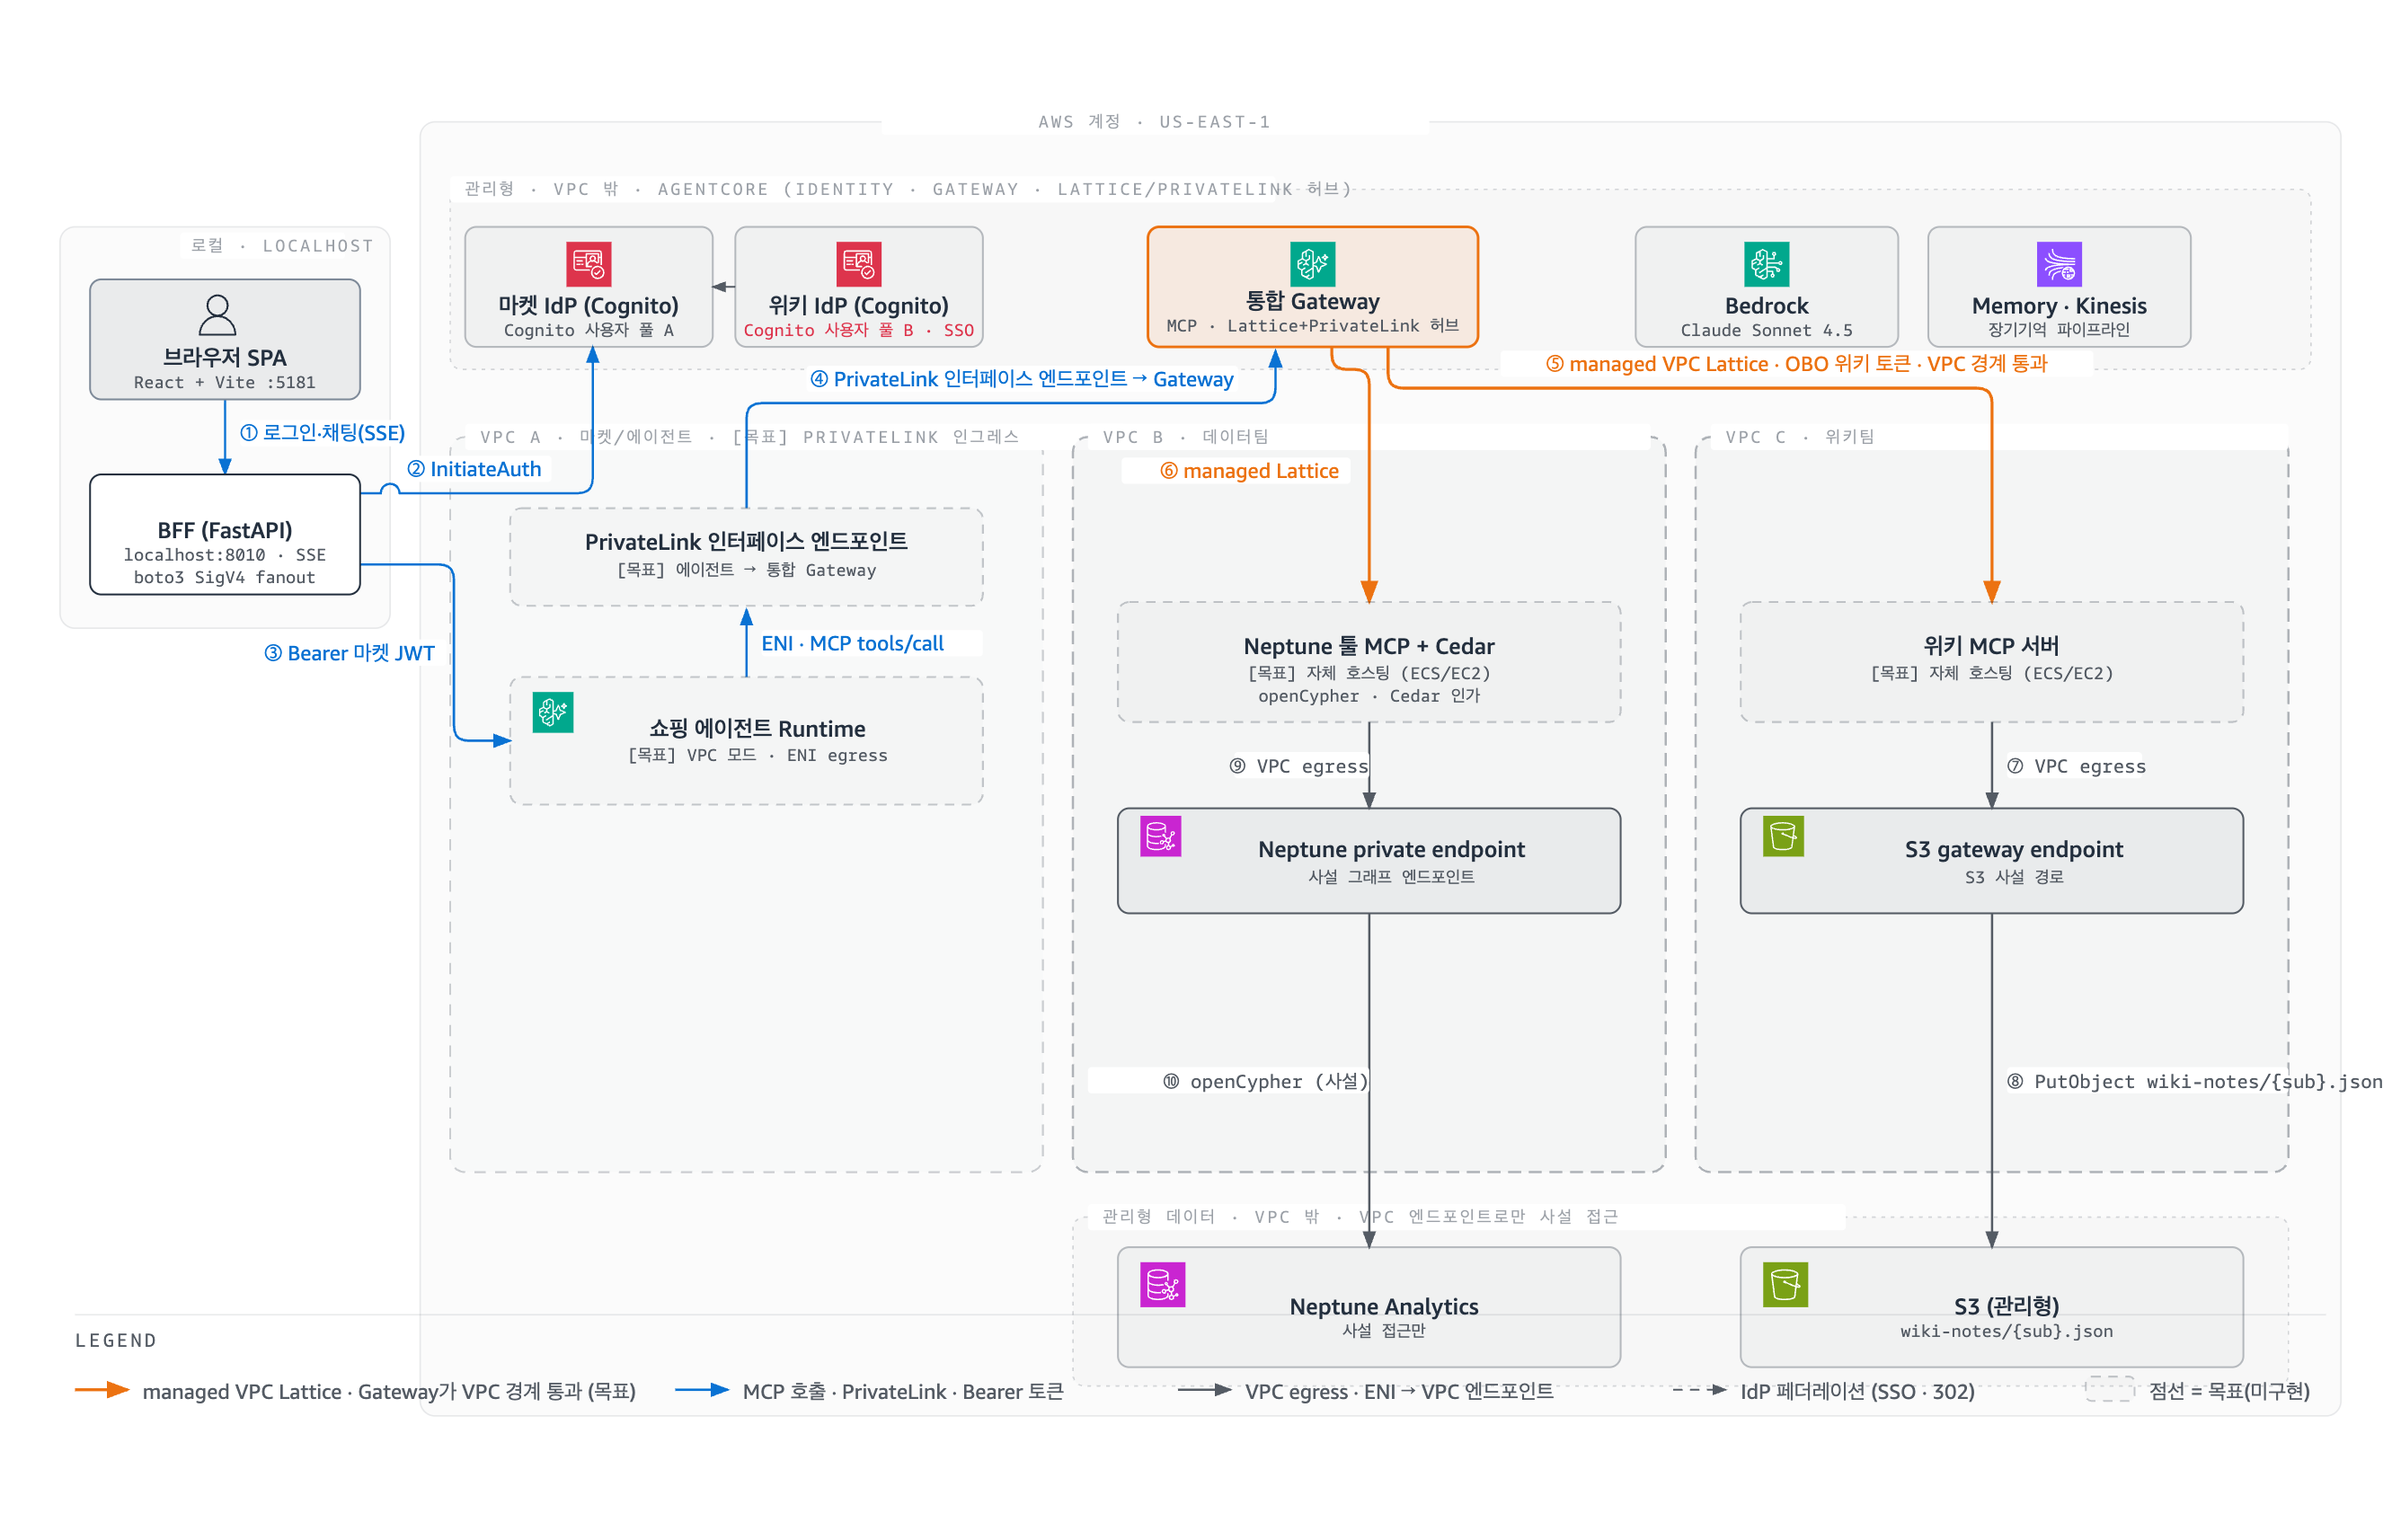
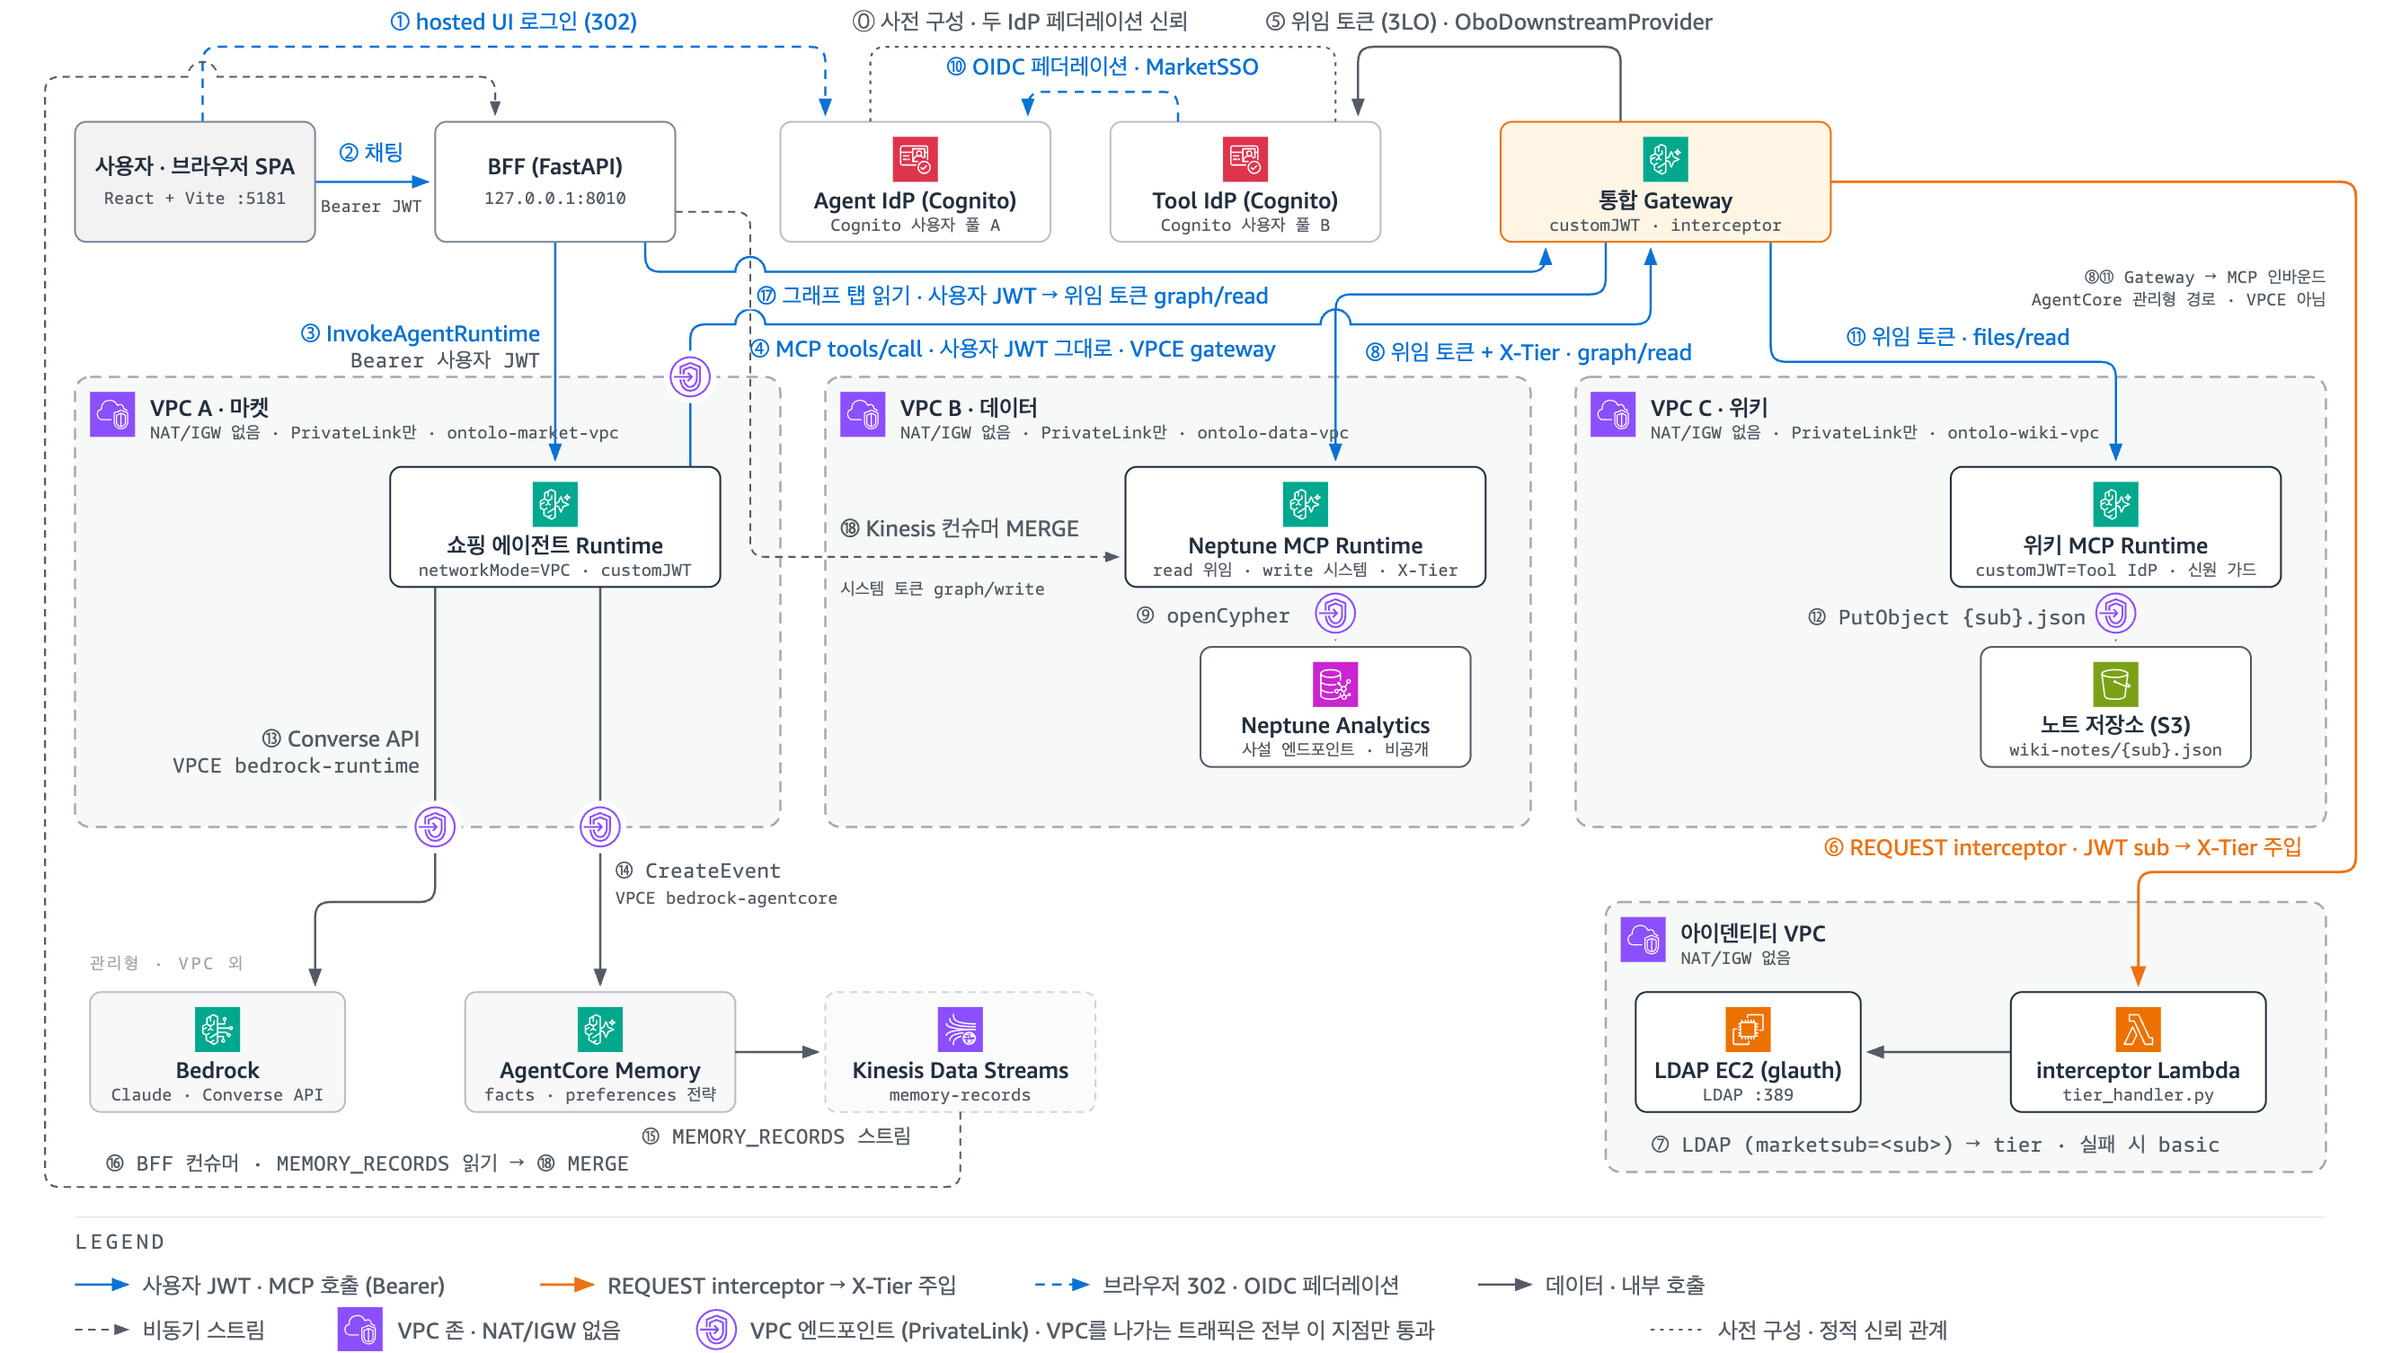
README: use current-state 4-VPC architecture diagram and matching explanation

diff --git a/README.md b/README.md
@@ -36,7 +36,40 @@ Amazon Bedrock AgentCore(Runtime · Gateway · Identity · Memory) 위에서 동
 
 ## 아키텍처
 
-![Ontolo Market 아키텍처 — VPC 분리 구조](docs/architecture.png)
+![Ontolo Market 아키텍처 — 4 VPC · PrivateLink 경계 · 신원이 백엔드까지 흐르는 길](docs/architecture.png)
+
+마켓(A)·데이터(B)·위키(C)·아이덴티티 네 VPC 어디에도 NAT·인터넷 게이트웨이가 없고, VPC를 나가는 트래픽은
+전부 VPC 엔드포인트(PrivateLink, 그림의 보라색 배지)만 통과합니다. 팀 사이의 연결은 네트워크가 아니라
+**통합 Gateway 하나**로 이루어지고, 각 팀의 시스템은 그 뒤의 내부 MCP 서버(AgentCore Runtime, VPC 모드)로 붙습니다.
+
+**구역**
+
+- **VPC 밖(관리형)**: 브라우저 SPA·BFF, Agent IdP(Cognito 풀 A)·Tool IdP(Cognito 풀 B), 통합 Gateway, Bedrock,
+  AgentCore Memory, Kinesis.
+- **VPC A · 마켓**: 쇼핑 에이전트 Runtime. Bedrock(⑬)·Memory(⑭)·Gateway(④)로 나가는 길은 인터페이스 엔드포인트뿐.
+- **VPC B · 데이터**: Neptune MCP Runtime과 Neptune Analytics(사설 엔드포인트, 비공개).
+- **VPC C · 위키**: 위키 MCP Runtime과 노트 S3(게이트웨이 엔드포인트).
+- **아이덴티티 VPC**: LDAP(glauth on EC2)과 Gateway REQUEST interceptor Lambda. Gateway → MCP Runtime 인바운드(⑧⑪)는
+  AgentCore 관리형 경로라 별도 엔드포인트가 없습니다.
+
+**흐름**
+
+- ⓪ 사전 구성 — Tool IdP가 Agent IdP를 OIDC로 신뢰(정적 신뢰, 화살촉 없는 점선).
+- ①②③ 로그인·전달 — hosted UI 로그인으로 받은 JWT가 BFF → 쇼핑 Runtime까지 그대로 전달. 홉마다 Agent IdP JWKS로
+  독립 검증하고, 고객 프로필은 요청값이 아니라 JWT `sub`로 바인딩.
+- ④ Gateway까지 토큰 하나 — 에이전트가 사용자 JWT 그대로 통합 Gateway를 MCP로 호출(VPCE gateway). 사용자 토큰의 마지막 홉.
+- ⑥⑦ 정책 지점 — REQUEST interceptor가 JWT `sub`로 LDAP을 조회해 `X-Tier`를 주입. 클라이언트 값은 무조건 덮고,
+  조회 실패 시 basic. 같은 자리에서 S3 revoke 목록(`iat <= revoked_at`)을 확인해 revoke된 세션을 즉시 거부.
+- ⑤⑧⑪ 위임 토큰 교환 — Gateway가 Token Vault의 Tool IdP 위임 토큰(3LO, 사용자 명의; `graph/read`·`files/read`)을 붙여
+  Neptune MCP·위키 MCP를 호출. MCP 타깃은 사용자 JWT 패스스루를 지원하지 않으므로 마켓 토큰은 백엔드에 닿지 않습니다.
+  볼트에 토큰이 없으면 동의 URL이 돌아오고 ⑩ OIDC 페더레이션으로 로컬 로그인 없이 동의. Tool IdP 사용자명이 마켓 `sub`에
+  JIT로 묶여 다른 계정 명의로 들어갈 경로가 없습니다.
+- ⑨ 데이터 차등 — Neptune MCP가 `X-Tier`로 premium은 취향 그래프 개인화, basic은 전역 인기 상품을 반환. 고객 바인딩은
+  위임 토큰 신원으로만 결정.
+- ⑫ 신원 가드 — 에이전트는 위임 토큰을 볼 수 없으므로 위키 MCP `whoami`의 사용자명에 마켓 `sub`가 포함될 때만 노트 저장.
+- ⑬⑭⑮⑯⑱ 장기기억 파이프라인 — 대화는 Memory에 저장(⑭), 추출된 장기기억 레코드가 Kinesis로 흘러(⑮) BFF 컨슈머가 읽고(⑯)
+  client_credentials 시스템 토큰(`graph/write`)으로 Neptune MCP에 직접 MERGE(⑱). 사용자 토큰은 쓰기 scope가 없어 거부됩니다.
+- ⑰ 그래프 탭 — BFF의 그래프 읽기도 에이전트와 같은 경로(Gateway → 위임 토큰 → Neptune MCP). 미동의면 409와 동의 URL.
 
 ## 사전 준비
 
